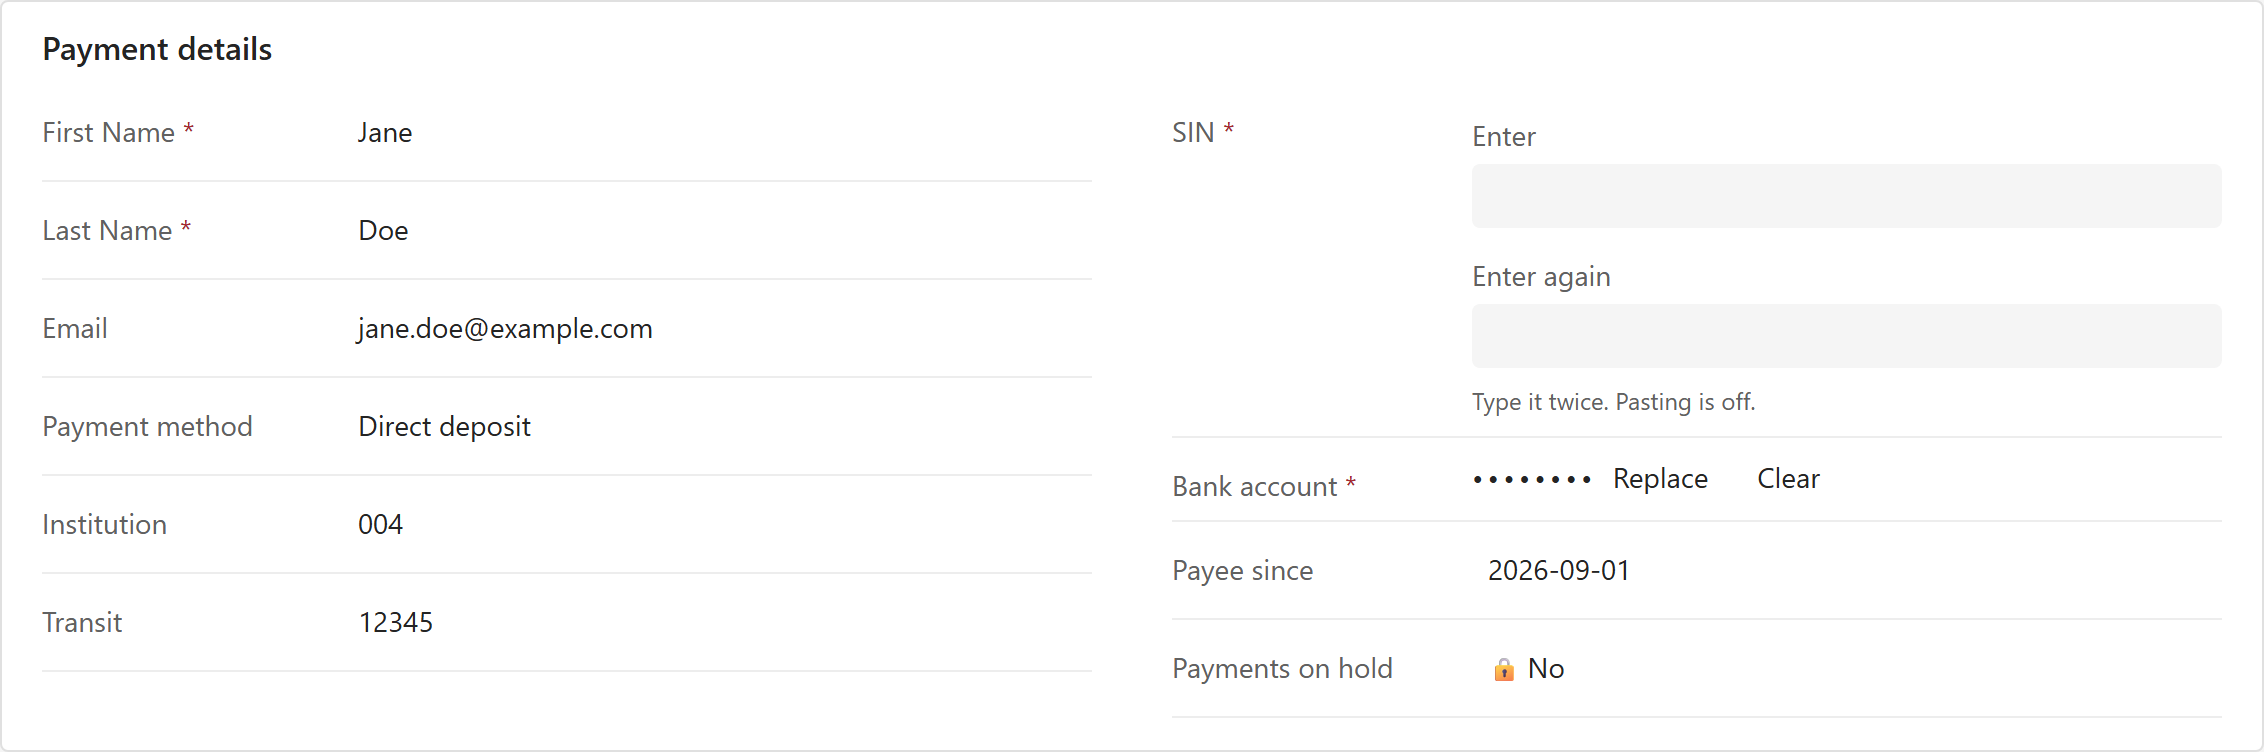
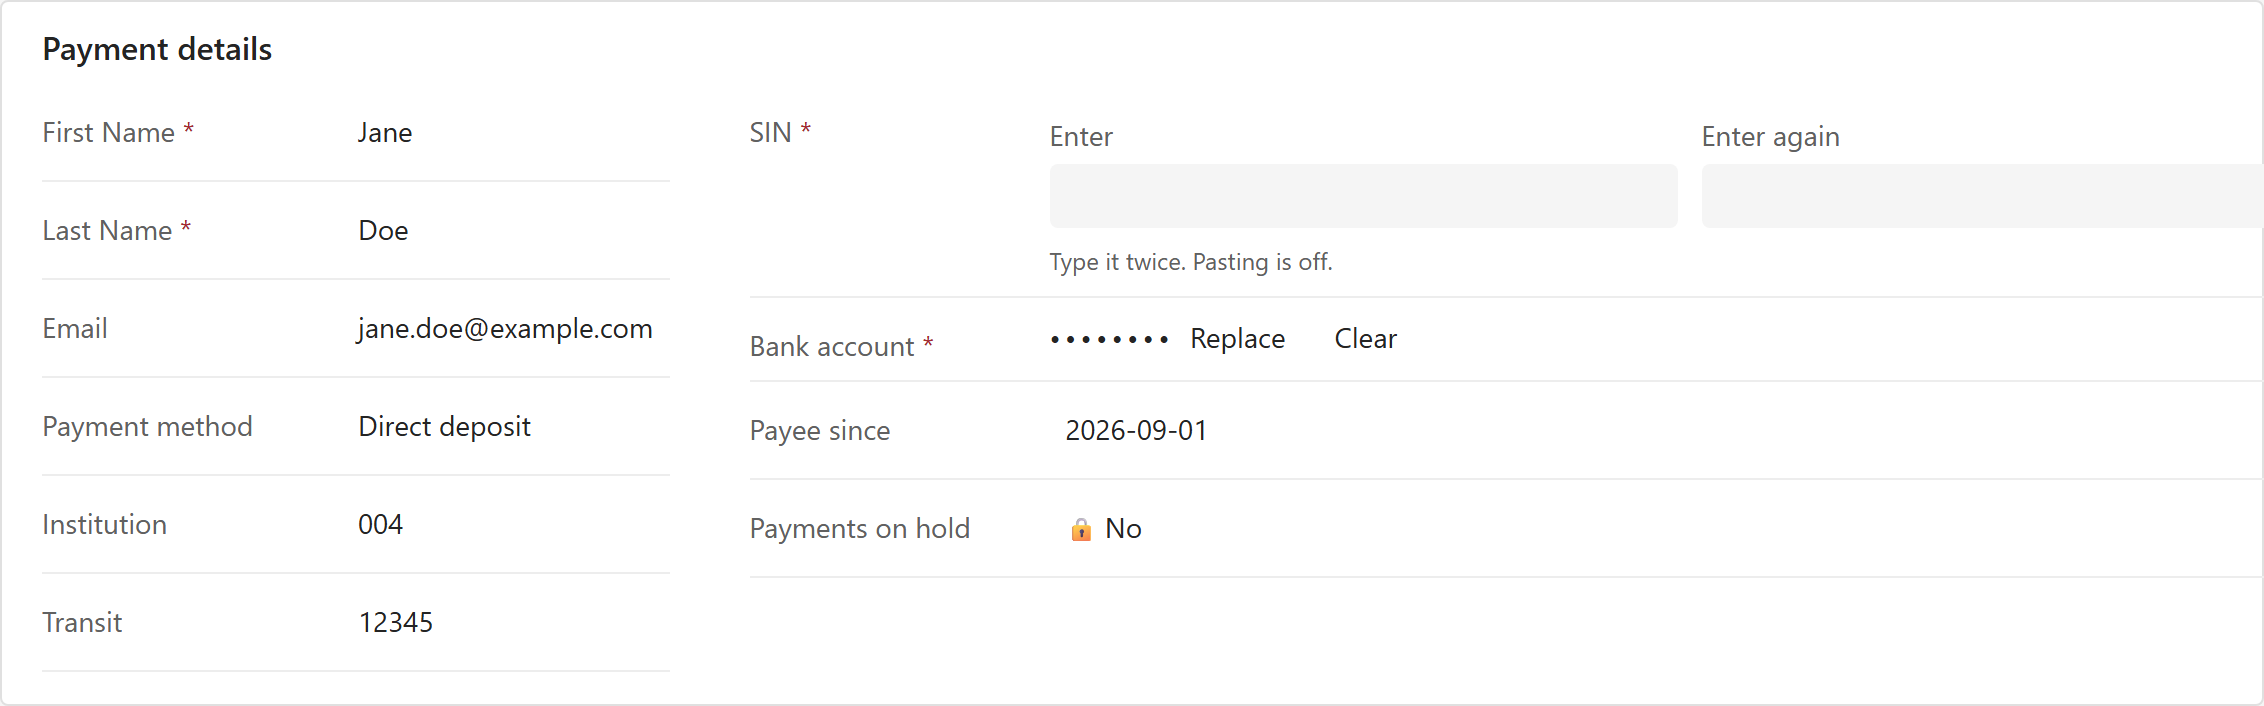
Side-by-side layout in wide cells, stacked in narrow ones
The view measures its width with a ResizeObserver and lays Enter and
Enter again out on one line from 480px; a layout property forces either.
Four harness tests (narrow, wide with the mismatch under the right field,
resize, forced). The fixture form now has a wide and a narrow column so
the real-form run shows both; it also clears the app's client caches
first, and the control guards every input read and is at 0.1.1, after a
stale cache and a missing parameter object produced "Error loading
control" on the updated form.

diff --git a/SealedInput/SealedInput/SealedInputView.tsx b/SealedInput/SealedInput/SealedInputView.tsx
@@ -1,12 +1,14 @@
 import * as React from "react";
 import { Button, Field, Input, Text, makeStyles, tokens } from "@fluentui/react-components";
 import {
+  Layout,
   Rules,
   STORED_DOTS,
   append,
   backspace,
   canCommit,
   display,
+  sideBySide,
   validateConfirm,
   validateEntry,
 } from "./sealedInput";
@@ -18,6 +20,8 @@ export interface ISealedInputViewProps {
   rules: Rules;
   /** How long the character just typed stays readable. 0 masks at once. */
   revealMs: number;
+  /** Auto switches to side by side at 480px of measured width. */
+  layout: Layout;
   /** Empty string clears; null is never sent because the platform reads it as "no change". */
   onCommit: (value: string) => void;
 }
@@ -25,6 +29,9 @@ export interface ISealedInputViewProps {
 const useStyles = makeStyles({
   root: { display: "flex", flexDirection: "column", rowGap: tokens.spacingVerticalS, width: "100%", textAlign: "left" },
   row: { display: "flex", alignItems: "center", columnGap: tokens.spacingHorizontalS },
+  fields: { display: "flex", flexDirection: "column", rowGap: tokens.spacingVerticalS },
+  fieldsSide: { flexDirection: "row", alignItems: "flex-start", columnGap: tokens.spacingHorizontalM },
+  field: { flex: "1 1 0", minWidth: 0 },
   dots: { letterSpacing: "0.15em", fontFamily: tokens.fontFamilyMonospace, color: tokens.colorNeutralForeground2 },
   hint: { color: tokens.colorNeutralForeground3 },
   input: { width: "100%" },
@@ -44,9 +51,25 @@ const quietAttrs = {
 
 type Slot = "first" | "second";
 
-export const SealedInputView: React.FC<ISealedInputViewProps> = ({ stored, disabled, rules, revealMs, onCommit }) => {
+export const SealedInputView: React.FC<ISealedInputViewProps> = ({ stored, disabled, rules, revealMs, layout, onCommit }) => {
   const styles = useStyles();
   const hasStored = stored !== "";
+
+  // Measure our own width; the form cell, not the host API, decides the layout.
+  const rootRef = React.useRef<HTMLDivElement>(null);
+  const [width, setWidth] = React.useState(0);
+  React.useEffect(() => {
+    const el = rootRef.current;
+    if (!el) return;
+    setWidth(el.getBoundingClientRect().width);
+    if (typeof ResizeObserver === "undefined") return;
+    const ro = new ResizeObserver((entries) => {
+      for (const e of entries) setWidth(e.contentRect.width);
+    });
+    ro.observe(el);
+    return () => ro.disconnect();
+  });
+  const side = sideBySide(layout, width);
 
   const [first, setFirst] = React.useState("");
   const [second, setSecond] = React.useState("");
@@ -182,8 +205,9 @@ export const SealedInputView: React.FC<ISealedInputViewProps> = ({ stored, disab
   }
 
   return (
-    <div className={styles.root} data-testid="sealed-entry">
-      <Field label="Enter" validationState={firstError ? "error" : "none"} validationMessage={firstError ?? undefined}>
+    <div className={styles.root} data-testid="sealed-entry" data-layout={side ? "side-by-side" : "stacked"} ref={rootRef}>
+      <div className={side ? `${styles.fields} ${styles.fieldsSide}` : styles.fields}>
+      <Field label="Enter" className={styles.field} validationState={firstError ? "error" : "none"} validationMessage={firstError ?? undefined}>
         <Input
           ref={firstRef}
           type="text"
@@ -200,7 +224,7 @@ export const SealedInputView: React.FC<ISealedInputViewProps> = ({ stored, disab
           {...blocked}
         />
       </Field>
-      <Field label="Enter again" validationState={secondError ? "error" : "none"} validationMessage={secondError ?? undefined}>
+      <Field label="Enter again" className={styles.field} validationState={secondError ? "error" : "none"} validationMessage={secondError ?? undefined}>
         <Input
           ref={secondRef}
           type="text"
@@ -216,6 +240,7 @@ export const SealedInputView: React.FC<ISealedInputViewProps> = ({ stored, disab
           {...blocked}
         />
       </Field>
+      </div>
       <div className={styles.row}>
         {(first.length > 0 || second.length > 0) && (
           <Button size="small" appearance="subtle" onClick={startOver} data-testid="sealed-startover">

diff --git a/SealedInput/SealedInput/index.ts b/SealedInput/SealedInput/index.ts
@@ -1,6 +1,6 @@
 import { IInputs, IOutputs } from "./generated/ManifestTypes";
 import { SealedInputView, ISealedInputViewProps } from "./SealedInputView";
-import { Characters, Rules, Validation } from "./sealedInput";
+import { Characters, Layout, Rules, Validation } from "./sealedInput";
 import * as React from "react";
 import { FluentProvider, Theme, webLightTheme } from "@fluentui/react-components";
 
@@ -15,17 +15,20 @@ export class SealedInput implements ComponentFramework.ReactControl<IInputs, IOu
 
   public updateView(context: ComponentFramework.Context<IInputs>): React.ReactElement {
     this.value = context.parameters.value.raw;
+    // A form saved before a property existed hands us no parameter object for
+    // it, so every input read is guarded; defaults apply.
     const p = context.parameters;
     const rules: Rules = {
-      characters: (p.characters.raw as Characters | null) ?? "digits",
-      validation: (p.validation.raw as Validation | null) ?? "none",
-      maxLength: p.maxLength.raw ?? 0,
+      characters: (p.characters?.raw as Characters | null) ?? "digits",
+      validation: (p.validation?.raw as Validation | null) ?? "none",
+      maxLength: p.maxLength?.raw ?? 0,
     };
     const props: ISealedInputViewProps = {
       stored: this.value ?? "", // hosts alternate null and "" for an empty column; treat them as one
       disabled: context.mode.isControlDisabled,
       rules,
-      revealMs: p.revealMs.raw ?? 1000,
+      revealMs: p.revealMs?.raw ?? 1000,
+      layout: (p.layout?.raw as Layout | null) ?? "auto",
       onCommit: (v) => {
         this.value = v; // "" clears the column; undefined would mean "unchanged"
         this.notifyOutputChanged();

diff --git a/SealedInput/SealedInput/sealedInput.ts b/SealedInput/SealedInput/sealedInput.ts
@@ -4,6 +4,17 @@ export const MASK = "•"; // bullet
 export const STORED_DOTS = MASK.repeat(8); // fixed width on purpose: the stored view must not leak length
 
 export type Characters = "digits" | "any";
+export type Layout = "auto" | "stacked" | "sideBySide";
+
+/** Width from which the two entry fields sit side by side in auto layout. */
+export const SIDE_BY_SIDE_MIN_WIDTH = 480;
+
+/** Whether the two fields go side by side, given the layout setting and the measured width (0 = unknown). */
+export function sideBySide(layout: Layout, width: number): boolean {
+  if (layout === "sideBySide") return true;
+  if (layout === "stacked") return false;
+  return width >= SIDE_BY_SIDE_MIN_WIDTH;
+}
 export type Validation = "none" | "sin";
 
 export interface Rules {

diff --git a/docs/usage.md b/docs/usage.md
@@ -8,20 +8,22 @@ numbers and Social Insurance Numbers.
 
 ## On a form
 
-A Contact form in a model-driven app, with the control on two columns. The
-SIN column is empty and waiting; the bank account already holds a value.
+A Contact form in a model-driven app. The wide column has the control on SIN
+and on bank account; the narrow column shows the SIN column once more. The
+control measures the cell it is given: from 480 pixels up, Enter and Enter
+again sit side by side; below that they stack.
 
-![Contact form: SIN empty with two entry fields, bank account stored as dots](img/form-real-empty.png)
+![Contact form: SIN empty in a wide and a narrow column, bank account stored](img/form-real-empty.png)
 
-Typing the SIN. Seven dots and the digit just typed; the bank account stays
-hidden.
+Typing the SIN in the wide column. The narrow copy stays empty until the
+value is stored.
 
-![SIN being typed on the form](img/form-real-typing.png)
+![SIN being typed on the form, side by side](img/form-real-typing.png)
 
-After the second entry matched. Both columns show dots only, and the form is
-marked unsaved until the record is saved.
+After the second entry matched. Every instance shows dots only, and the form
+is marked unsaved until the record is saved.
 
-![Both columns stored on the form](img/form-real-stored.png)
+![All instances stored on the form](img/form-real-stored.png)
 
 These are real screenshots taken by `e2e/run.mjs` in a test environment: it
 builds the fixture form, types the SIN twice, saves with Ctrl+S and reads the
@@ -42,11 +44,22 @@ masks the last character at once.
 |---|---|
 | ![three dots and a 4](img/entry-typing.png) | ![all dots](img/entry-masked.png) |
 
+In a wide cell the two fields share one line. The layout follows the width of
+the cell, so the same control stacks on a phone or in a narrow section.
+
+| Narrow cell | Wide cell |
+|---|---|
+| ![stacked](img/layout-narrow.png) | ![side by side](img/layout-wide.png) |
+
 Enter, or Tab, moves to the second field. When the second entry is as long as
 the first and differs, the control says so. Nothing is stored. Backspace and
 retype, or **Start over** to clear both fields.
 
 ![Does not match the first entry](img/entry-mismatch.png)
+
+Side by side, the message sits under the field it is about.
+
+![side by side mismatch](img/layout-wide-mismatch.png)
 
 The moment both entries agree the value is written to the column and the
 control collapses to a row of dots. The row is always eight dots, whatever the
@@ -82,6 +95,7 @@ optional.
 | Validation | None | `Canadian SIN` requires nine digits with a valid Luhn checksum and caps typing at nine. |
 | Maximum length | 0 | Longest value that can be typed. 0 means no limit. Ignored when validation is SIN. |
 | Reveal last character (ms) | 1000 | How long the character just typed stays readable. 0 masks at once. |
+| Layout | Auto by width | `Auto` puts the two fields side by side from 480 pixels of width and stacks them below that. `Stacked` and `Side by side` force one or the other. |
 
 Suggested settings:
 

diff --git a/README.md b/README.md
@@ -25,7 +25,7 @@ Dataverse column security's job; the manual says so.
   last typed character. `sealedInput.ts` holds the rules with no React or DOM
   in them; `SealedInputView.tsx` is the UI; `index.ts` wires the platform.
 - `e2e/`: Playwright Test suite against the pcf-start harness hosted headlessly
-  on port 8183 (`harness-server.mjs`; the sibling repo uses 8182). 24 tests
+  on port 8183 (`harness-server.mjs`; the sibling repo uses 8182). 28 tests
   covering masking and reveal timing, the digit filter and length cap, Ctrl+V
   and dispatched paste, drop, cut, copy and context-menu events, mismatch,
   match and store, Replace, Cancel, Clear, and the SIN checksum. `npm run docs`
@@ -74,6 +74,11 @@ Each of these was an open question in the first README.
   push a new value: replacing a value with the identical value gives the host
   nothing to push, and the control used to stay stuck in entry mode. Clear writes `""`; returning `null`/`undefined` from `getOutputs`
   means "unchanged" and does not blank the column (verified in the harness).
+- **Layout (added later on 2026-09-09).** The control measures its own width
+  with a ResizeObserver and puts Enter and Enter again side by side from 480
+  pixels, stacked below. A `layout` property forces either. Measured rather
+  than taken from `allocatedWidth` so the harness, the form and the mock-up all
+  behave the same.
 - **Tooling.** Skeleton copied from `xrm-plain-number` rather than
   `pac pcf init`, which pins Fluent 9.68.0 that the environment rejects.
   Playwright Test with a `webServer` entry, so `npx playwright test` is the
@@ -97,6 +102,13 @@ Each of these was an open question in the first README.
 - Static input properties in form XML: `<name static="true" type="Enum">v</name>`
   inside `<parameters>`, one `<customControl>` per formFactor 0, 1, 2. Worked
   first time.
+- After `pac pcf push` of a changed control the form showed "Error loading
+  control" for every instance and kept the old form layout. Two causes: the
+  app's client cache (localStorage, IndexedDB, Cache Storage) still held the
+  old form and bundle, and a form saved before a manifest property existed
+  hands the control no parameter object for it, so `p.layout.raw` threw. Fix:
+  clear those caches before opening the form (`shoot-form.mjs` does), guard
+  every input read with `?.`, and bump the manifest version on each push.
 - Robocopy of a Chromium profile stalls on the locked cookie database when any
   Chromium has it open; pass `/R:0 /W:0` and close the holder. An orphaned
   headless shell from a finished script will hold it indefinitely.
